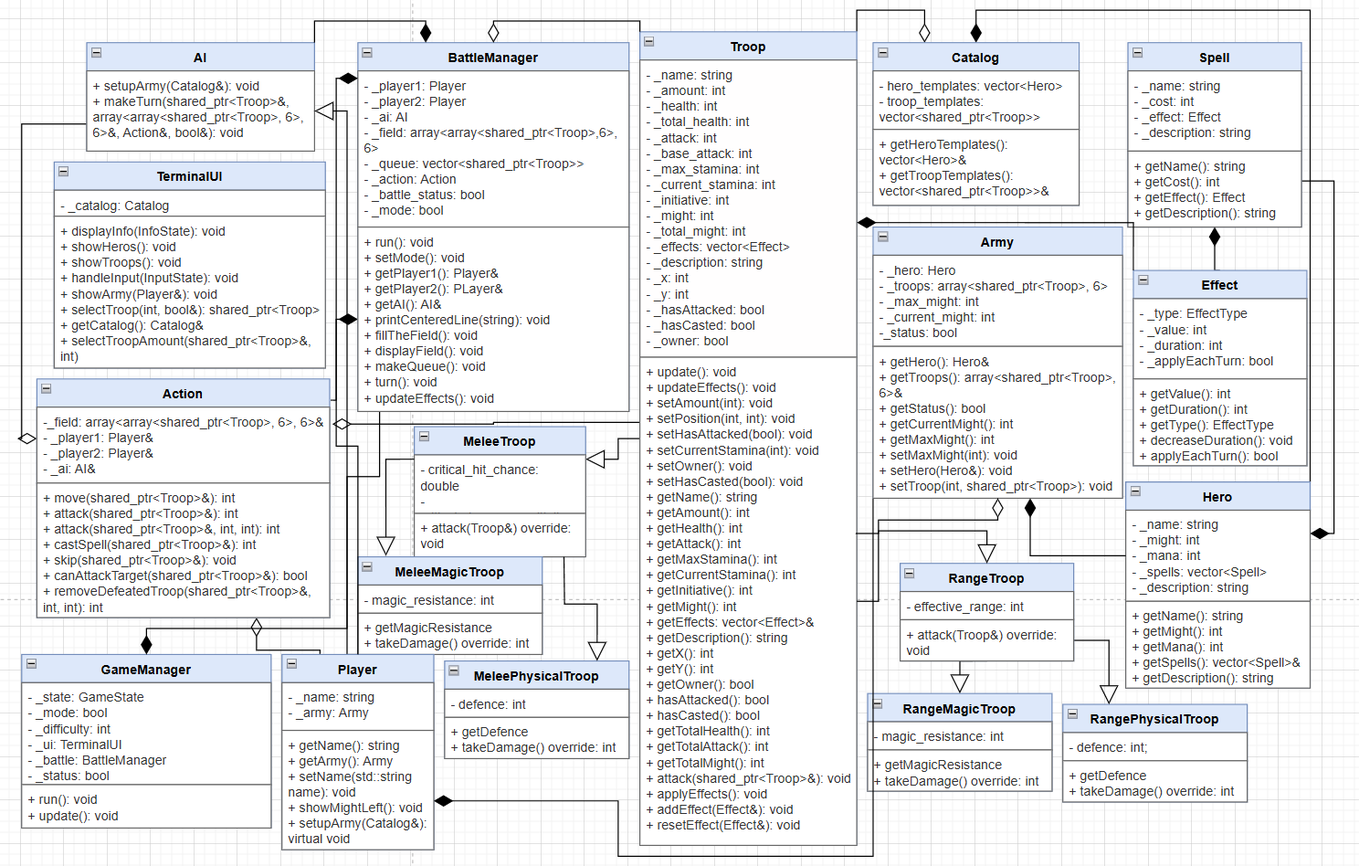
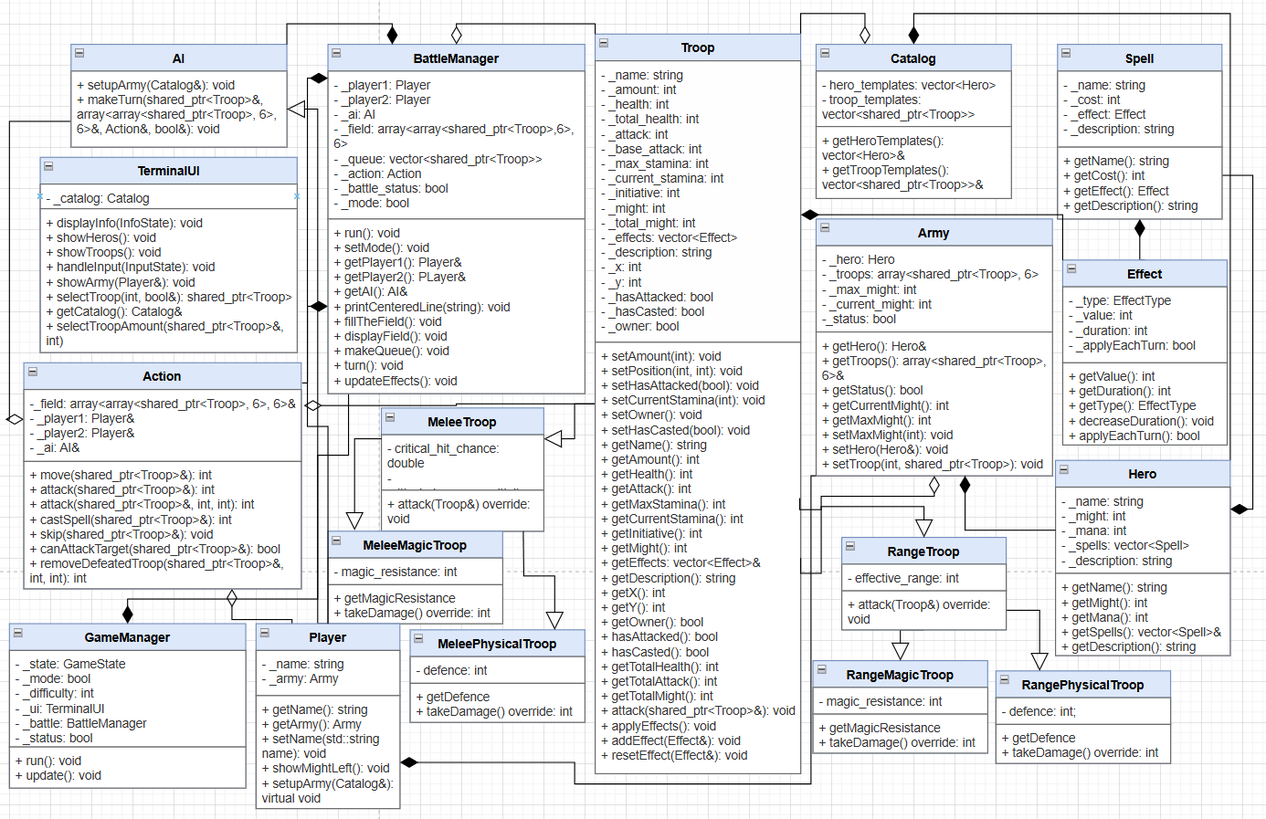
Updated class diagram, general description and requirements according to implemented game core

diff --git a/docs/Requirements and usage scenarios.md b/docs/Requirements and usage scenarios.md
@@ -3,115 +3,108 @@
 ## Functional Requirements
 
 ### 1. Game Core
-*   The system shall provide a terminal-based turn-based strategy game inspired by Heroes of Might and Magic 3, with simplified mechanics.
-*   The system shall support two game modes: single-player (against AI) and local multiplayer (two players on the same device).
-*   The system shall manage game states (MENU, SELECT_MODE, PREPARE_ARMY, BATTLE, END, REPLAY) using a state management mechanism.
-*   The system shall allow players to prepare armies with a maximum of 6 troops, 1 hero, and up to 5 spells, limited by a mightLimit (15,000 for multiplayer, 5,000–15,000 for single-player based on difficulty: Easy, Medium, Hard).
-*   The system shall calculate the total army might as the sum of each troop’s might (might * amount, where amount is 1–99) and hero’s might.
+* The system shall provide a terminal-based turn-based strategy game inspired by Heroes of Might and Magic 3, with simplified mechanics.
+* The system shall support single-player mode (against AI); local multiplayer mode is not fully implemented (currently exits with a message).
+* The system shall manage game states (MENU, CHOOSE_DIFFICULTY, PREPARE_ARMY, BATTLE, END) using `GameManager`.
+* The system shall allow players to prepare armies with a maximum of 6 troops and 1 hero, limited by a might limit (5500 for Easy, 2500 for Normal, 1000 for Hard in single-player; 3000 for AI).
+* The system shall calculate total army might as the sum of the hero’s might and each troop’s might (might * amount, where amount is 1–99).
 
 ### 2. Troops
-*   The system shall provide a diverse roster of troop types (Melee, Ranged, Magic, Physical) with characteristics: attack, defense, health, speed and might.
-*   Each troop shall represent a single entity with an amount of units (1–99), affecting overall damage and health, scaled by might * amount.
-*   The system shall support troop subtypes (MeleeTroop, RangeTroop, MeleeMagicTroop, MeleePhysicalTroop, RangeMagicTroop, RangePhysicalTroop) through inheritance, with unique characteristics (e.g., magic resistance, defense).
+* The system shall provide a roster of troop types with characteristics: attack, health, stamina, initiative, and might.
+* Each troop shall represent a single entity with an amount of units (1–99), affecting total damage (attack * amount) and total health (health * amount), scaled by might * amount.
+* No troop subtypes (e.g., Melee, Ranged, Magic) or unique characteristics (e.g., magic resistance) are implemented; all troops use a single `Troop` class with uniform attack range (adjacent cells).
 
 ### 3. Heroes
-*   The system shall provide a selection of hero characters, each with mana (for spell-casting) and a passive effect that influences troop characteristics.
-*   The system shall allow heroes to cast spells during battle to affect troops (damage, buffs, debuffs) via the CAST action.
+* The system shall provide a selection of 3 hero characters, each with mana (20–30) and 3 predefined spells (damage, buffs, debuffs).
+* The system shall allow heroes to cast spells during battle via the `CAST` action, consuming mana and affecting troop stats (health, attack, stamina).
+* No passive effects from heroes influence troop characteristics.
 
 ### 4. Armies
-*   The system shall manage armies, each consisting of up to 6 troops, 1 hero, and up to 5 spells, with a total might not exceeding mightLimit.
-*   The system shall ensure army composition is customizable via a catalog during PREPARE_ARMY, with might-based limitations.
+* The system shall manage armies, each consisting of 1 hero and up to 6 troops, with a total might not exceeding the might limit (1000–5500 for player, 3000 for AI).
+* The system shall allow army customization during PREPARE_ARMY via a catalog (`Catalog`), respecting might-based limits.
 
 ### 5. Battlefield
-*   The system shall provide a 6x6 square grid for troop placement and movement.
-*   The system shall handle troop positioning and movement within the 6x6 grid, ensuring valid coordinates (0–5 for x and y).
+* The system shall provide a 6x6 square grid for troop placement and movement, implemented in `BattleManager`.
+* The system shall handle troop positioning (Player 1 at y=0, Player 2/AI at y=5) and movement within the 6x6 grid, ensuring valid coordinates (0–5 for x and y).
 
 ### 6. Battle System
-*   The system shall implement a turn-based combat system on the 6x6 grid, with turns determined by troop speed.
-*   The system shall support the following actions per turn (via Action class): MOVE (to a free cell), ATTACK (enemy troop within range), DEFEND (if not moved), SKIP (always available), and CAST (hero’s spell).
-*   The system shall calculate damage based on troop stats (attack, defense, range, speed), enhanced by spells.
-*   The system shall end the battle when all troops of one army are destroyed, declaring the other player the winner.
+* The system shall implement a turn-based combat system on the 6x6 grid, with turns ordered by troop initiative (highest first) via `BattleManager`.
+* The system shall support the following actions per turn (via `Action` class):
+  * **MOVE:** To any free cell within stamina range.
+  * **ATTACK:** Targets an adjacent enemy troop (1-cell range).
+  * **CAST:** Uses a hero’s spell on any troop, if mana is sufficient.
+  * **SKIP:** Ends the turn.
+* The system shall calculate damage as attack * amount, with no defense, crits, or range modifiers.
+* The system shall end the battle when all troops of one army are defeated (amount <= 0), declaring the other player the winner.
 
 ### 7. User Interface
-*   The system shall provide a terminal-based interface for player interaction, using text prompts to manage troops, execute actions (MOVE, ATTACK, DEFEND, SKIP, CAST), and display game information.
-*   The system shall display the 6x6 battlefield, troop states, and game status (e.g., current might, turn order) via text output.
+* The system shall provide a terminal-based interface (`TerminalUI`) for player interaction, using text prompts to manage troops, execute actions (MOVE, ATTACK, CAST, SKIP), and display game information.
+* The system shall display the 6x6 battlefield, troop states (health, attack, stamina), hero mana, spells, and turn queue via text output in `BattleManager`.
 
 ### 8. Artificial Intelligence (AI)
-*   The system shall provide an AI opponent for single-player mode, making strategic decisions for enemy armies and heroes based on predefined rules (e.g., random or difficulty-based choices).
-*   The AI shall prepare armies during PREPARE_ARMY and execute actions (MOVE, ATTACK, DEFEND, SKIP, CAST) during BATTLE, respecting mightLimit and troop limits.
+* The system shall provide an AI opponent for single-player mode (`AI` class), preparing a fixed army (might = 3000) and making decisions during battle.
+* The AI shall execute actions (MOVE toward nearest enemy, ATTACK if in range, SKIP otherwise) based on simple predefined rules.
 
 ### 9. Local Multiplayer
-*   The system shall support local multiplayer mode, allowing two players to take turns controlling their armies on the same device, alternating turns until one army is defeated.
+* The system shall recognize a local multiplayer option in the menu, but currently exits with a message ("Multiplayer mode is not yet implemented").
 
 ## Non-Functional Requirements
 
 ### 1. Performance
-*   The system shall run efficiently in a terminal environment, completing turns and calculations within 1 second on standard hardware (e.g., modern PC with C++ compiler).
-*   The system shall handle up to 12 troops (6 per army) and 10 spells (5 per army) without performance degradation.
+* The system shall run efficiently in a terminal environment, completing turns and calculations within 1 second on standard hardware (e.g., modern PC with C++ compiler).
+* The system shall handle up to 12 troops (6 per army) and 6 spells (3 per hero) without performance degradation.
 
 ### 2. Usability
-*   The system shall provide clear, concise text prompts and error messages for user input, ensuring intuitive navigation for players familiar with terminal interfaces.
-*   The system shall support simple keyboard input (e.g., numbers, commands like "move 1 2") for all actions.
+* The system shall provide clear text prompts and error messages for user input (e.g., "Invalid target", "Not enough mana") via `TerminalUI` and `Action`.
+* The system shall support simple keyboard input (e.g., "1" for actions, "2 3" for coordinates) for all interactions.
 
 ### 3. Maintainability
-*   The system shall be implemented in C++ with modular classes (e.g., .h and .cpp files), adhering to object-oriented principles for ease of maintenance and extension.
-*   The code shall include comments and documentation for each class and method.
+* The system shall be implemented in C++ with modular classes (`.h` and `.cpp` files), adhering to object-oriented principles.
+* The code shall include Doxygen comments for each class and method (currently implemented).
 
 ## Constraints
-
-*   The system shall operate solely in a terminal environment, without graphical user interface (GUI) or external dependencies beyond standard C++ libraries.
-*   The system shall limit army composition to 6 troops, 1 hero, and 5 spells per army, with mightLimit constraints (15,000 for multiplayer, 5,000–15,000 for single-player).
-*   The battlefield shall be fixed at a 6x6 grid, with no terrain or strategic elements.
+* The system shall operate solely in a terminal environment, using only standard C++ libraries (e.g., `<iostream>`, `<vector>`).
+* The system shall limit army composition to 6 troops and 1 hero with 3 spells, with might limit constraints (1000–5500 for single-player, 3000 for AI).
+* The battlefield shall be fixed at a 6x6 grid, with no terrain or strategic elements.
 
 # Use Case Scenarios
 
-1.  **Launching the Game:**
-    *   The player launches the game executable.
-    *   The game initializes and presents the main menu via terminal text.
+1. **Launching the Game:**
+    * The player launches the game executable.
+    * The system initializes and displays the main menu via `TerminalUI`.
 
-2.  **Starting a New Game (Single Player):**
-    *   The player selects "Play" from the main menu by entering "1".
-    *   The player selects the difficulty level for the game (Easy, Medium, Hard) by entering "1", "2", or "3". The selected difficulty level determines the maximum allowable "might" value for the army (e.g. 5,000 for Easy, 10,000 for Medium, 15,000 for Hard).
-    *   The player selects a hero from the available roster by entering "hero <number>". The Hero contributes its "might" value to the total army might.
-    *   The player customizes their army by selecting troops. Each troop contributes its might value (might * amount) to the total army might, entered as "troop <number> <amount>" (where amount is 1–99).
-    *   The game displays the army's total "might" value via terminal, reflecting the combined strength of the hero and troops (e.g., "Current army might: 1200/15000"). The player cannot proceed if the total "might" exceeds the limit imposed by the selected difficulty level, prompting "Might limit exceeded, choose another troop or reduce amount."
-    *   The game automatically selects a 6x6 battlefield and transitions to BATTLE.
+2. **Starting a New Game (Single Player):**
+    * The player selects "Start Game" (1) from the menu.
+    * The player enters their name via `TerminalUI`.
+    * The player selects difficulty (1–3: Easy, Normal, Hard), setting might limit (5500, 2500, 1000).
+    * The player selects a hero (1–3) from `Catalog`, contributing might (400–600).
+    * The player selects up to 6 troops from `Catalog`, entering troop number (1–15) and amount (1–99), respecting might limit.
+    * The system displays army might (e.g., "The Might of [name]'s army: 1200/5500").
+    * The system transitions to BATTLE on a 6x6 grid.
 
-3.  **Starting a New Game (Local Multiplayer):**
-    *   The player selects "Local Multiplayer" from the main menu by entering "2".
-    *   Both players have a pre-established maximum "might" limit for their armies (e.g. 15,000).
-    *   Player 1 and Player 2 each select a hero from the available roster by entering "hero <number>". Each Hero contributes its "might" value to its army's total might.
-    *   Player 1 and Player 2 each customize their army by selecting troops. Each troop contributes its might value (might * amount) to its respective army’s total might, entered as "troop <number> <amount>" (where amount is 1–99).
-    *   The game displays each player's total "might" value via terminal, reflecting the combined strength of their hero and troops (e.g., "Player 1 army might: 1200/15000"). Players cannot proceed if their total "might" exceeds the established limit, prompting "Might limit exceeded, choose another troop or reduce amount."
-    *   The game automatically selects a 6x6 battlefield and transitions to BATTLE.
-    *   During gameplay:
-        *   The turn order of troops is predetermined based on their speed attributes, displayed via terminal (e.g., "Turn order: Troop1, Troop2...").
-        *   Players may choose to skip a turn for any troop by entering "skip", but the overall turn order remains predetermined.
-        *   Turns alternate between players until one player's army is completely defeated, with the terminal displaying "Player 1’s turn" or "Player 2’s turn."
+3. **Starting a New Game (Local Multiplayer):**
+    * The player selects "Local Multiplayer" (2) from the menu.
+    * The system displays "Multiplayer mode is not yet implemented" and exits.
 
-4.  **Executing a Turn:**
-    *   The player's turn begins, with the terminal displaying "It’s your turn. Select a troop and action."
-    *   The player selects a troop from their army to activate by entering the troop number (e.g., "1" for first troop).
-    *   The player moves the selected troop to a valid location on the 6x6 battlefield grid by entering "move x y" (e.g., "move 2 3"), constrained by its movement range (based on speed).
-    *   The player attacks an enemy troop within the troop's attack range by entering "attack <target_number>". Damage calculations consider the troop's attack, the target's defense, displayed as "Troop1 deals 50 damage to Troop2."
-    *   The player may use a spell (CAST) by entering "cast <spell_number> <target_number>" (e.g., "cast 1 2" to cast Spell 1 on Troop 2), if spells are available in the army’s spell book.
-    *   The player may defend by entering "defend" if the troop has not moved, increasing defense temporarily, displayed as "Troop1 defends (+10 defense)."
-    *   The player may choose to skip a turn for any troop by entering "skip", with no action taken.
+4. **Executing a Turn:**
+    * The turn begins with the highest-initiative troop, displayed as "[Player]'s [Troop] turn".
+    * The player selects an action via `TerminalUI`:
+      * "1" to MOVE (enters "x y" coordinates, e.g., "2 3"), limited by stamina.
+      * "2" to ATTACK (enters target "x y"), if adjacent.
+      * "3" to CAST (selects spell 1–3, target "x y"), if mana available.
+      * "4" to SKIP.
+    * The system displays results (e.g., "[Troop] deals 50 damage to [Target]").
 
-5.  **Winning the Game:**
-    *   One player's army is entirely defeated, with the terminal displaying "All enemy troops destroyed."
-    *   The winning player is declared victorious via terminal output, e.g., "Player 1 wins!"
-    *   The game displays a "Victory" screen via terminal, prompting "Victory! Return to menu (1) or start new game (2)."
-    *   The player is given the option to return to the main menu or start a new game by entering "1" or "2."
+5. **Winning the Game:**
+    * All enemy troops are defeated (amount <= 0).
+    * The system displays "[Player] has won the battle!" and ends via `GameManager`.
 
-6.  **Losing the Game:**
-    *   All troops of the player's army are defeated, with the terminal displaying "All your troops destroyed."
-    *   The game displays a "Defeat" screen via terminal, prompting "Defeat! Return to menu (1) or start new game (2)."
-    *   The player is given the option to return to the main menu or start a new game by entering "1" or "2."
+6. **Losing the Game:**
+    * All player troops are defeated (amount <= 0).
+    * The system displays "AI Bot has won the battle!" and ends.
 
-7.  **Exiting the Game:**
-    *   The player selects "Exit" from the main menu by entering "3".
+7. **Exiting the Game:**
+    * The player selects "Exit" (3) from the menu, terminating the game.
 
 ## Notes:
-
-*   These requirements define the target features of the fully developed game.
+* These requirements reflect the current implementation, with local multiplayer and some features (e.g., Defense, troop subtypes) not yet realized.

diff --git a/docs/Test plan.md b/docs/Test plan.md
@@ -1,28 +1,90 @@
 # Test Plan
 
 ## Test Objectives
-
-*   Verify that the terminal-based turn-based strategy game functions correctly using automated tests, ensuring tactical combat on a 6x6 grid.
-*   Ensure all game modes (single-player vs. AI, local multiplayer) operate as expected through unit and integration tests.
-*   Validate core mechanics, including troop management, hero spell-casting, and battle actions, using Google Test.
+* Verify that the terminal-based turn-based strategy game functions correctly using automated tests with Google Test, ensuring tactical combat on a 6x6 grid.
+* Ensure single-player mode (against AI) operates as expected through unit and integration tests.
+* Validate core mechanics, including troop management, hero spell-casting, and battle actions, using Google Test.
 
 ## Test Scope
 
 ### 1. Functional Testing
-*   Test the initialization and navigation of game states (MENU, SELECT_MODE, PREPARE_ARMY, BATTLE, END, REPLAY) using unit tests for `GameManager` and `GameStateManager`.
-*   Verify army preparation in PREPARE_ARMY, ensuring mightLimit constraints (15,000 for multiplayer, 5,000–15,000 for single-player based on difficulty) with unit tests for `GameManager`, `Catalog`, and `Troop`.
-*   Validate turn-based combat on the 6x6 grid, including actions (MOVE, ATTACK, DEFEND, SKIP, CAST) and damage calculations, using unit and integration tests for `BattleManager`, `Battlefield`, `Action`, and `Troop`.
-*   Ensure correct troop behavior (MeleeTroop, RangeTroop, MeleeMagicTroop, MeleePhysicalTroop, RangeMagicTroop, RangePhysicalTroop) with characteristics (attack, defense, health, speed, might, amount) through unit tests for `Troop` and its subclasses.
-*   Confirm hero functionality, including mana-based spell-casting (via Spell) using unit tests for `Hero` and `Spell`.
-*   Test AI behavior in single-player mode for army preparation and battle actions with unit tests for `AI`.
-*   Validate local multiplayer mode, ensuring turn alternation and army limits, using integration tests for `GameManager` and `BattleManager`.
+* Test the initialization and navigation of game states (MENU, CHOOSE_DIFFICULTY, PREPARE_ARMY, BATTLE, END) using unit tests for `GameManager`.
+* Verify army preparation in PREPARE_ARMY, ensuring might limit constraints (5500 for Easy, 2500 for Normal, 1000 for Hard for player; 3000 for AI) with unit tests for `GameManager`, `Catalog`, `Army`, and `Troop`.
+* Validate turn-based combat on the 6x6 grid, including actions (MOVE, ATTACK, CAST, SKIP) and damage calculations, using unit and integration tests for `BattleManager`, `Action`, and `Troop`.
+* Ensure correct troop behavior with characteristics (attack, health, stamina, initiative, might, amount) through unit tests for `Troop`.
+* Confirm hero functionality, including mana-based spell-casting (3 spells per hero) using unit tests for `Hero`, `Spell`, and `Effect`.
+* Test AI behavior in single-player mode for army preparation and battle actions with unit tests for `AI`.
+* Validate battlefield initialization and troop placement (Player 1 at y=0, AI at y=5) using unit tests for `BattleManager`.
 
 ### 2. Non-Functional Testing
-*   Verify terminal interface performance, ensuring clear text prompts and quick response times (<1 second per turn) through performance tests in Google Test.
-*   Test usability, confirming intuitive input (e.g., "move 2 3", "attack 1") and readable output (6x6 grid, troop states) via mock terminal outputs.
+* Verify terminal interface performance, ensuring turns complete within 1 second on standard hardware, using performance tests in Google Test for `BattleManager` and `Action`.
+* Test usability, confirming clear text prompts and readable output (6x6 grid, troop stats) via mock terminal outputs in `TerminalUI` and `BattleManager`.
 
 ### 3. Boundary and Edge Cases
-*   Test army composition with minimum (1 troop, 1 unit) and maximum (6 troops, 99 units each) might, ensuring mightLimit compliance, using unit tests for `GameManager` and `Troop`.
-*   Verify battlefield edge cases (troops at x=0, x=5, y=0, y=5) for MOVE and ATTACK actions with unit tests for `Battlefield` and `Action`.
-*   Check invalid inputs (e.g., "move 6 6", negative numbers) and ensure proper error handling with unit tests for `TerminalUI` and `BattleManager`.
-*   Test spell-casting (CAST) with empty spell book, invalid targets, and mana limits using unit tests for `Hero`, `Spell`, and `Action`.
+* Test army composition with minimum (1 troop, 1 unit) and maximum (6 troops, 99 units each) might, ensuring might limit compliance, using unit tests for `GameManager`, `Army`, and `Troop`.
+* Verify battlefield edge cases (troops at x=0, x=5, y=0, y=5) for MOVE and ATTACK actions with unit tests for `Action`.
+* Check invalid inputs (e.g., "move 6 6", "attack -1 0", non-numeric input) and ensure proper error handling with unit tests for `TerminalUI` and `Action`.
+* Test spell-casting (CAST) with insufficient mana, invalid targets, and edge cases (max/min effect values) using unit tests for `Hero`, `Spell`, `Effect`, and `Action`.
+
+## Test Cases
+
+### Unit Tests
+1. **GameManager**
+   * `TEST(GameManager, StateTransitions)`: Verify MENU transitions to CHOOSE_DIFFICULTY on "1", END on "3".
+   * `TEST(GameManager, DifficultySelection)`: Test might limits (5500, 2500, 1000) for inputs "1", "2", "3".
+   * `TEST(GameManager, ArmyPrepToBattle)`: Ensure PREPARE_ARMY transitions to BATTLE after army setup.
+
+2. **Troop**
+   * `TEST(Troop, AttackDamage)`: Troop (attack=5, amount=10) deals 50 damage, reducing target health accordingly.
+   * `TEST(Troop, AmountCalculation)`: Health=10, total_health=55 reduces amount to 6.
+   * `TEST(Troop, EffectApplication)`: Apply health effect (-5, duration=2), verify total health decrease.
+   * `TEST(Troop, StaminaLimits)`: Move reduces stamina correctly; zero stamina blocks further moves.
+
+3. **Hero**
+   * `TEST(Hero, ManaReduction)`: Casting spell (cost=10) reduces mana from 20 to 10.
+   * `TEST(Hero, SpellAccess)`: Verify 3 spells are accessible and match catalog data.
+
+4. **Spell**
+   * `TEST(Spell, EffectRetrieval)`: Spell returns correct effect (type, value, duration).
+   * `TEST(Spell, CostValidation)`: Verify cost matches initialized value.
+
+5. **Effect**
+   * `TEST(Effect, DurationDecrease)`: Decrease duration from 3 to 2 after one turn.
+   * `TEST(Effect, ApplyEachTurn)`: Verify applyEachTurn flag affects application logic.
+
+6. **Army**
+   * `TEST(Army, MightCalculation)`: Hero (might=500) + 2 troops (might=10, amount=10 each) = 700.
+   * `TEST(Army, StatusCheck)`: Army with 1 troop alive returns true; all null returns false.
+
+7. **Catalog**
+   * `TEST(Catalog, HeroTemplates)`: Verify 3 heroes with correct might, mana, and spells.
+   * `TEST(Catalog, TroopTemplates)`: Verify 15 troops with correct stats.
+
+8. **Action**
+   * `TEST(Action, MoveValid)`: Move from (0,0) to (1,1) succeeds with stamina=2.
+   * `TEST(Action, MoveInvalid)`: Move to occupied cell or beyond stamina fails.
+   * `TEST(Action, AttackRange)`: Attack succeeds only on adjacent cells.
+   * `TEST(Action, CastSpell)`: Spell applies effect and reduces mana; fails if mana insufficient.
+   * `TEST(Action, SkipTurn)`: Sets hasAttacked and stamina to 0.
+
+9. **AI**
+   * `TEST(AI, ArmySetup)`: Verify AI army might equals 3000 with 6 troops.
+   * `TEST(AI, MoveToEnemy)`: Moves toward nearest enemy within stamina.
+   * `TEST(AI, AttackDecision)`: Attacks adjacent enemy; skips if no targets.
+
+10. **TerminalUI**
+    * `TEST(TerminalUI, InputValidation)`: "1" accepted for ONE_OF_THREE; "4" rejected.
+    * `TEST(TerminalUI, TroopSelection)`: Select troop within might limit; reject if exceeds.
+
+### Integration Tests
+1. **BattleManager**
+   * `TEST(BattleManager, FullBattle)`: Simulate battle with 1 troop per side; ends when one defeated.
+   * `TEST(BattleManager, TurnOrder)`: Verify queue sorts by initiative descending.
+   * `TEST(BattleManager, FieldSetup)`: Player 1 troops at y=0, AI at y=5.
+
+2. **GameManager + TerminalUI + BattleManager**
+   * `TEST(EndToEnd, SinglePlayerFlow)`: From MENU to BATTLE, setup army, fight, and end with winner.
+
+## Performance Tests
+* `TEST(Performance, TurnSpeed)`: Ensure `BattleManager::turn` completes in <1s with 12 troops.
+* `TEST(Performance, DisplaySpeed)`: Verify `BattleManager::displayField` executes in <1s.

diff --git a/docs/General system description.md b/docs/General system description.md
@@ -2,43 +2,53 @@
 
 **Genre:** Turn-based strategy, simplified version of the HoMM3 combat system
 
-**Concept:** The game is a turn-based strategic combat system inspired by Heroes of Might and Magic 3 (HoMM3), but with simplified mechanics to make it easier to create it as a terminal-based game. The main focus is on tactical planning and troop management on the battlefield, as well as utilizing heroes who cast spells but do not directly influence troop characteristics.
+**Concept:** The game is a turn-based strategic combat system inspired by Heroes of Might and Magic 3 (HoMM3), but with simplified mechanics for a terminal-based implementation. The focus is on tactical troop management and hero spell-casting on a battlefield, with heroes not directly influencing troop stats except through spells.
 
 ## Main System Elements:
 
-1.  **Troops:**
-    *   Each troop is a combat entity with specific characteristics:
-        *   Attack: Influences the damage dealt, calculated using might and troop characteristics.
-        *   Defense: Influences resistance to damage.
-        *   Health (HP): Determines troop survivability.
-        *   Speed: Determines the troop's turn order.
-        *   Attack Type: (e.g., Melee, Ranged, Magic Attack).
-        *   Might: Influences the army's total might, used as a limit (mightLimit) for army composition.
-    *   The amount of units in each troop affects its overall damage and health, with might scaled accordingly.
-    *   Different troop types have unique characteristics (e.g., magic resistance, defense) implemented in subclasses (Melee, Ranged, Magic, Physical), but no special abilities.
+1. **Troops:**
+    * Each troop is a combat entity with specific characteristics:
+        * **Attack:** Determines damage dealt (total attack = attack * amount).
+        * **Health (HP):** Determines survivability (total health = health * amount).
+        * **Stamina:** Limits movement and actions per turn (replaces Defense and Speed in some aspects).
+        * **Initiative:** Determines turn order (replaces Speed for sequencing).
+        * **Might:** Contributes to the army's total might limit (might * amount).
+        * **Amount:** Number of units (1–99), scaling damage, health, and might.
+    * No explicit Defense stat; damage resistance is not implemented.
+    * No distinct Attack Types (Melee, Ranged, Magic) or subclasses; all troops are generic with uniform attack range (adjacent cells).
+    * Effects (buffs/debuffs) can modify health, attack, or stamina via spells.
 
-2.  **Heroes:**
-    *   Heroes are unique characters who cast spells but do not directly participate in battles, manage armies, or influence troop characteristics, including might.
-    *   Each hero has characteristics:
-        *   Mana: Tracks available mana for casting spells, with varying amounts influencing might and spell usage.
-        *   Magic: Enables casting spells (via Spell) to affect troops (damage, buffs, debuffs).
-        *   Might: Influences only the hero’s contribution to the army's total might for mightLimit, without affecting troops.
+2. **Heroes:**
+    * Heroes do not fight but cast spells to affect troops.
+    * Characteristics:
+        * **Mana:** Limits spell-casting (20–30 initial mana).
+        * **Might:** Contributes to army might limit (400–600).
+        * **Spells:** 3 spells per hero (damage, buffs, debuffs).
+    * No passive effects influencing troop characteristics; only spells affect troops.
 
-3.  **Armies:**
-    *   An army consists of several troops (up to 6), one hero, and a spell book (up to 5 spells), limited by mightLimit. The hero’s spells and passive effects affect troop performance during battles.
+3. **Armies:**
+    * Consist of 1 hero and up to 6 troops, limited by a might limit (1000–5500 for single-player, 3000 for AI).
+    * No separate spell book; spells are tied to the hero (3 spells max).
 
-4.  **Battlefield:**
-    *   A 6x6 square grid for troop placement and movement.
+4. **Battlefield:**
+    * A 6x6 grid for troop placement and movement.
+    * Troops start on opposite sides (Player 1 at y=0, Player 2/AI at y=5).
 
-5.  **Battle System:**
-    *   Combat occurs in turn-based mode on a 6x6 grid, determined by troop speed.
-    *   During a turn, the player or AI can (via Action): Move a troop to a free cell, Attack an enemy troop, Use a hero’s spell (CAST), Defend (if not moved), or Skip the turn.
-    *   Damage is calculated based on the attack, defense, crits, and range of attacking and defending troops, enhanced by spells (via CAST).
-    *   The battle ends when all troops of one of the armies are destroyed.
+5. **Battle System:**
+    * Turn-based combat on a 6x6 grid, ordered by troop initiative (highest first).
+    * Actions per turn (via Action class):
+        * **Move:** To any free cell within stamina range.
+        * **Attack:** Targets adjacent enemy troops (1-cell range).
+        * **Cast:** Uses a hero’s spell (requires mana, targets any troop).
+        * **Skip:** Ends the turn.
+    * No explicit Defend action; troops can attack or cast once per turn, move multiple times within stamina.
+    * Damage = attack * amount; no crits or range modifiers.
+    * Battle ends when one army’s troops are all defeated (amount <= 0).
 
-6.  **Artificial Intelligence (AI):**
-    *   The AI controls enemy armies and heroes.
-    *   AI makes decisions based on predefined rules and strategies, accounting for hero spell-casting but not hero might or passive effects on troops.
+6. **Artificial Intelligence (AI):**
+    * Controls enemy army in single-player mode.
+    * Prepares a fixed army (might = 3000) with predefined troops.
+    * Moves toward nearest enemy and attacks if in range; skips if no targets.
 
 ## Game Goal:
 Win the battle by destroying all enemy troops on the battlefield.
